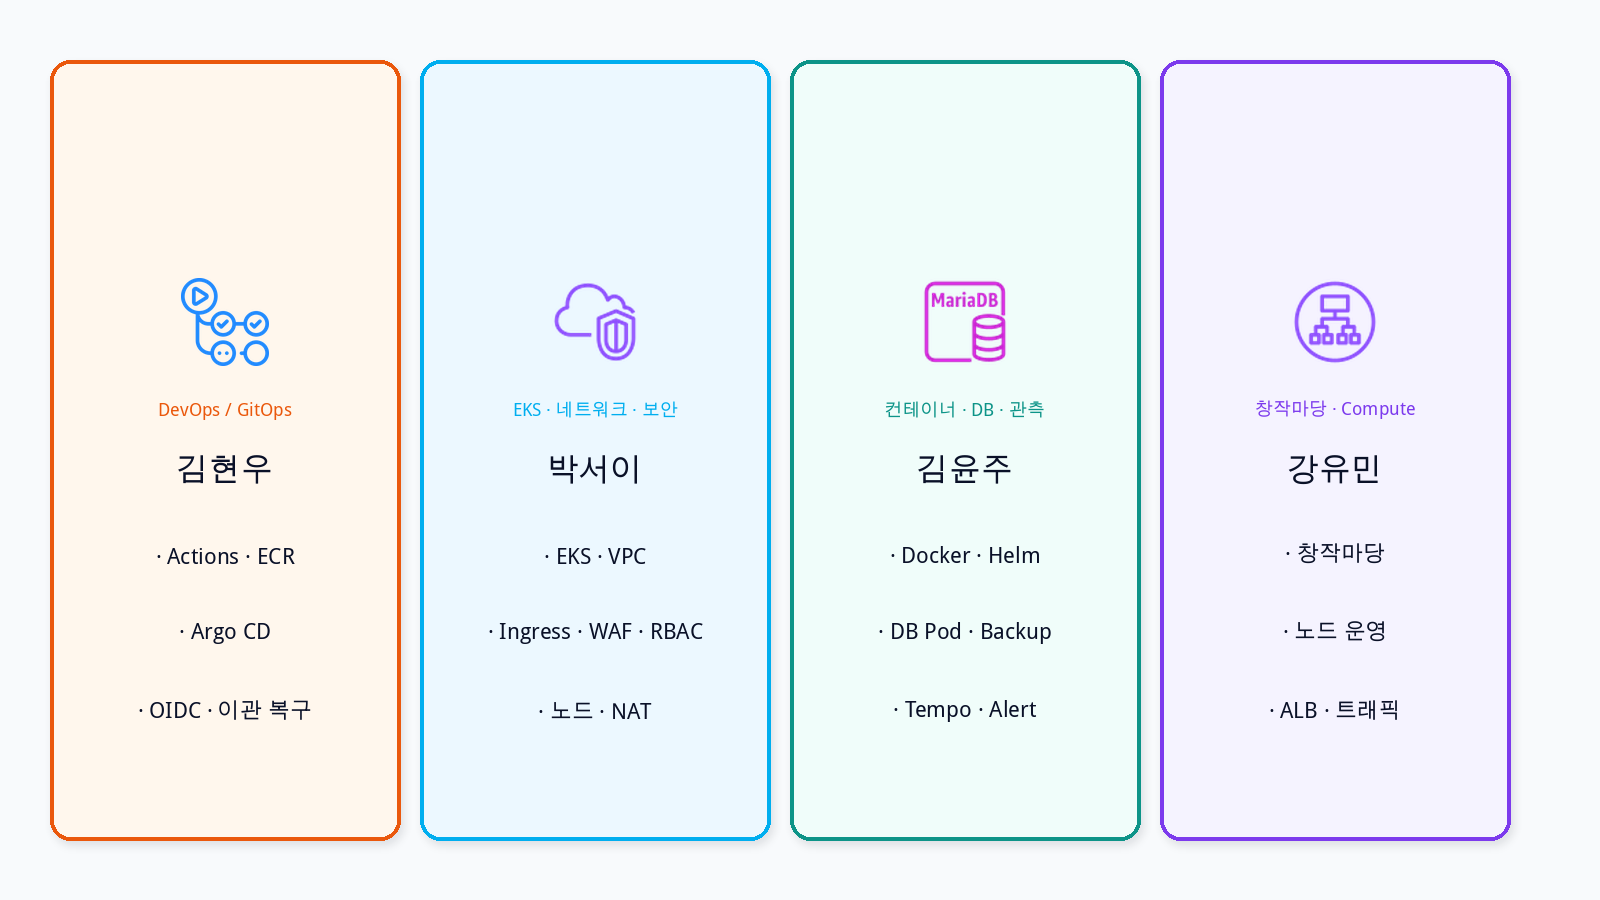
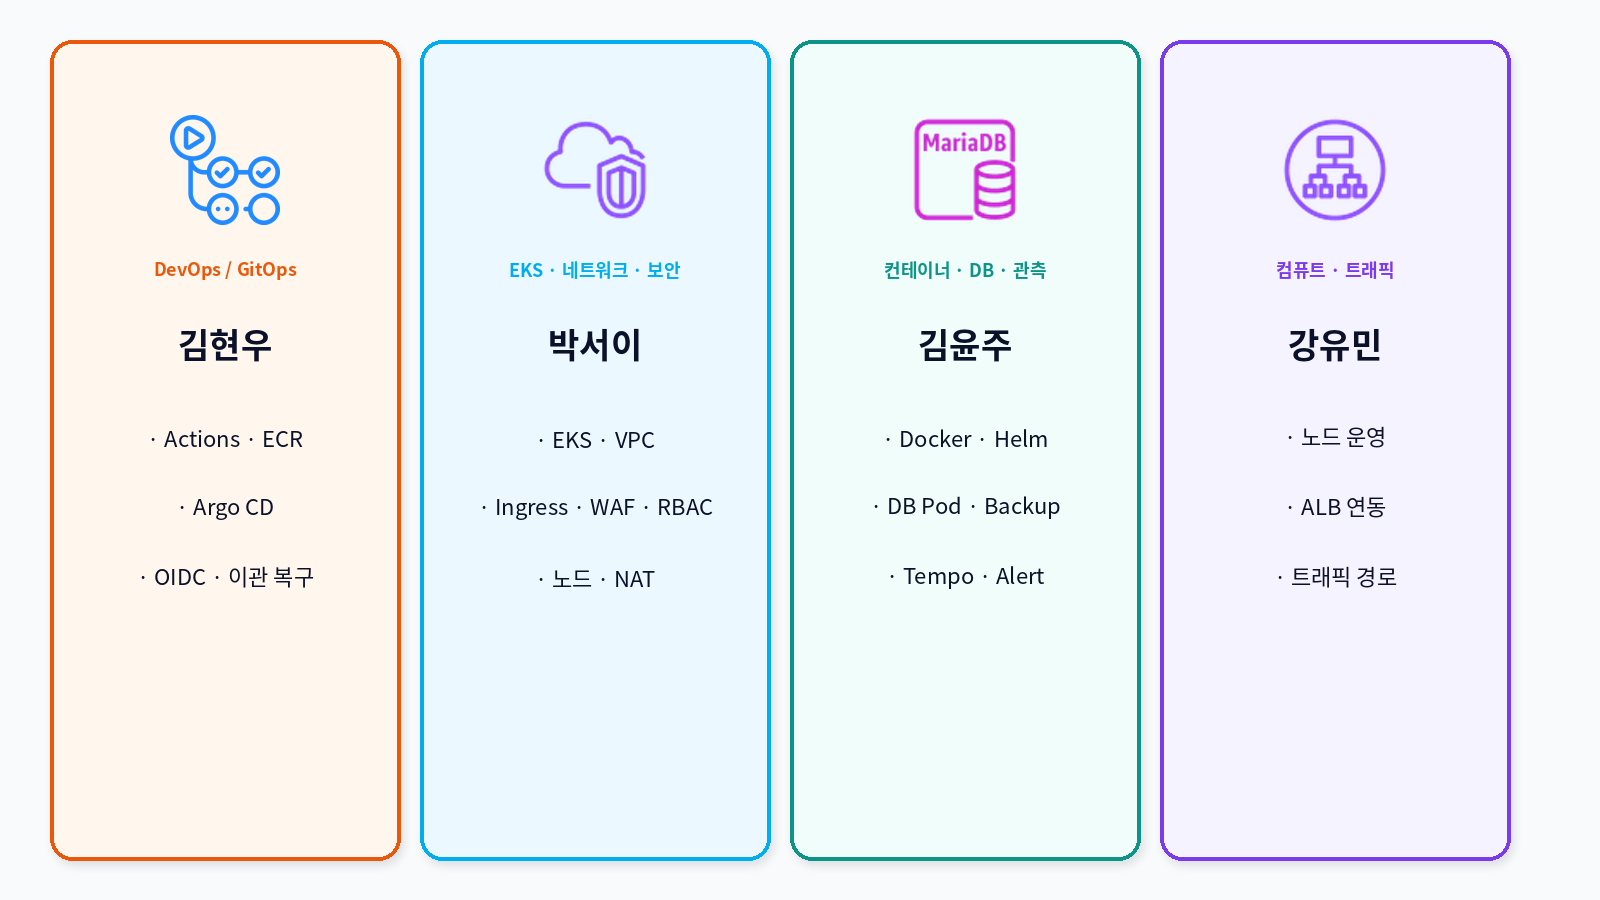
docs(presentation): 역할분담을 4열 카드 이미지로 본편 반영
2x2 작은 아이콘 대신, 이전에 만든 hybrid_00_roles 스타일
(상단 아이콘 + 세로 4열 카드) 이미지를 19장에 넣음.

diff --git a/docs/presentation/make_aniverse_v1v2_ppt.py b/docs/presentation/make_aniverse_v1v2_ppt.py
@@ -628,64 +628,13 @@ def slide_schedule(prs):
 
 
 def slide_roles(prs):
-    """팀 역할분담 — 옵션 C(2×2) + 큰 아이콘(배경 원), 텍스트 수정 가능."""
+    """팀 역할분담 — 첨부하신 4열 카드 이미지(hybrid_00_roles)를 그대로 사용."""
     s = blank(prs)
     bg(s)
     title_center(s, "팀 역할분담", size=34)
-    roles = [
-        (
-            ORANGE,
-            "githubactions",
-            "김현우",
-            "DevOps / GitOps",
-            ["Actions · ECR", "Argo CD", "OIDC · 이관 복구"],
-        ),
-        (
-            CYAN,
-            "vpc",
-            "박서이",
-            "EKS · 네트워크 · 보안",
-            ["EKS · VPC", "Ingress · WAF · RBAC", "노드 · NAT"],
-        ),
-        (
-            TEAL,
-            "rds_maria",
-            "김윤주",
-            "컨테이너 · DB · 관측",
-            ["Docker · Helm", "DB Pod · Backup", "Tempo · Alert"],
-        ),
-        (
-            PURPLE,
-            "alb",
-            "강유민",
-            "창작마당 · Compute",
-            ["창작마당", "노드 운영", "ALB · 트래픽"],
-        ),
-    ]
-    positions = [(0.45, 1.1), (6.85, 1.1), (0.45, 4.05), (6.85, 4.05)]
-    for (x, y), (color, icon, name, area, lines) in zip(positions, roles):
-        card(s, Inches(x), Inches(y), Inches(6.0), Inches(2.75), SOFT, color)
-        # 아이콘이 잘 보이도록 흰 원 배경 + 큰 아이콘
-        circle_icon(s, Inches(x + 0.28), Inches(y + 0.7), Inches(1.35), WHITE)
-        icon_path = ICON / f"{icon}.png"
-        if icon_path.exists():
-            s.shapes.add_picture(
-                str(icon_path),
-                Inches(x + 0.45),
-                Inches(y + 0.87),
-                width=Inches(1.0),
-                height=Inches(1.0),
-            )
-        text_x = Inches(x + 1.9)
-        name_box = s.shapes.add_textbox(text_x, Inches(y + 0.28), Inches(3.8), Inches(0.55))
-        set_text(name_box.text_frame, name, 26, True, color)
-        area_box = s.shapes.add_textbox(text_x, Inches(y + 0.85), Inches(3.8), Inches(0.4))
-        set_text(area_box.text_frame, area, 15, True, NAVY)
-        detail = s.shapes.add_textbox(text_x, Inches(y + 1.4), Inches(3.8), Inches(1.15))
-        set_text(detail.text_frame, "·  " + lines[0], 16, False, NAVY)
-        for line in lines[1:]:
-            add_para(detail.text_frame, "·  " + line, 16, False, NAVY, 8)
+    put_img(s, "hybrid_00_roles.png", top=Inches(0.95), bottom=Inches(7.05))
     footer(s, 19)
+
 
 
 def slide_qa(prs):

diff --git a/docs/presentation/make_hybrid_diagrams.py b/docs/presentation/make_hybrid_diagrams.py
@@ -364,25 +364,25 @@ def make_roles():
             1160,
             PURPLE,
             SOFT_PURPLE,
-            "창작마당 · Compute",
+            "컴퓨트 · 트래픽",
             "강유민",
-            ["창작마당", "노드 운영", "ALB · 트래픽"],
+            ["노드 운영", "ALB 연동", "트래픽 경로"],
             "alb",
         ),
     ]
-    for x, color, bg, title, who, lines, icon in panels:
-        y0, y1 = 60, 840
-        soft_card(img, (x, y0, x + 350, y1), r=20, fill=bg)
+    for x, color, fill, title, who, lines, icon in panels:
+        y0, y1 = 40, 860
+        soft_card(img, (x, y0, x + 350, y1), r=22, fill=fill)
         d = ImageDraw.Draw(img)
-        d.rounded_rectangle((x, y0, x + 350, y1), radius=20, outline=color, width=4)
-        icon_size = 88
-        block_h = icon_size + 55 + 45 + 55 + 3 * 78
-        top = y0 + int((y1 - y0 - block_h) * 0.72)
-        paste_icon(img, icon, x + 175, top + icon_size // 2, icon_size)
-        center_text(d, title, x + 175, top + icon_size + 42, fnt(18, True), color)
-        center_text(d, who, x + 175, top + icon_size + 100, fnt(32, True), NAVY)
+        d.rounded_rectangle((x, y0, x + 350, y1), radius=22, outline=color, width=4)
+        # 아이콘을 카드 상단에 크게 (첨부 이미지와 동일 배치)
+        icon_size = 110
+        icon_cy = y0 + 130
+        paste_icon(img, icon, x + 175, icon_cy, icon_size)
+        center_text(d, title, x + 175, icon_cy + 95, fnt(18, True), color)
+        center_text(d, who, x + 175, icon_cy + 165, fnt(34, True), NAVY)
         for i, line in enumerate(lines):
-            center_text(d, "· " + line, x + 175, top + icon_size + 185 + i * 78, fnt(22), NAVY)
+            center_text(d, "· " + line, x + 175, icon_cy + 260 + i * 70, fnt(22), NAVY)
     save(img, "hybrid_00_roles.png")
 
 

diff --git a/docs/presentation/CONTENT_V1V2_working.md b/docs/presentation/CONTENT_V1V2_working.md
@@ -29,7 +29,7 @@
 | 16 | 트러블슈팅 · GitOps · CI/CD | 3행 | 현우 |
 | 17 | 트러블슈팅 · EKS | 3행 | 서이 |
 | 18 | 트러블슈팅 · DB · 관측 | 3행 | 윤주 |
-| 19 | 팀 역할분담 | **텍스트 카드 + 아이콘** | 옵션 C(2×2) · PPT에서 텍스트 수정 가능 |
+| 19 | 팀 역할분담 | **이미지** | `hybrid_00_roles.png` 4열 카드(아이콘 상단) |
 | 20 | Q & A | 텍스트 | 감사 · 팀 이름 |
 
 ---
